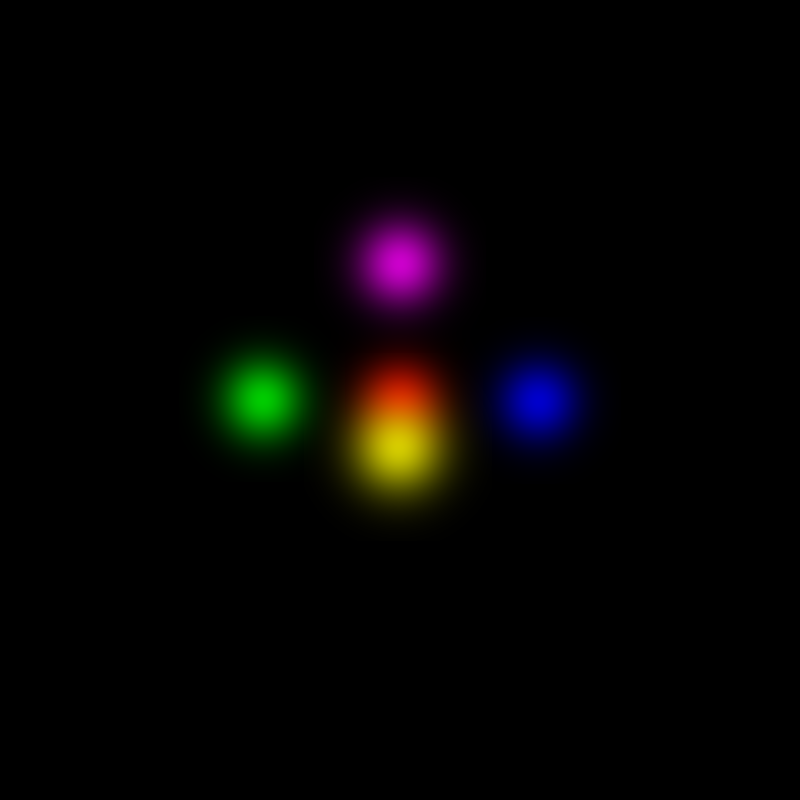
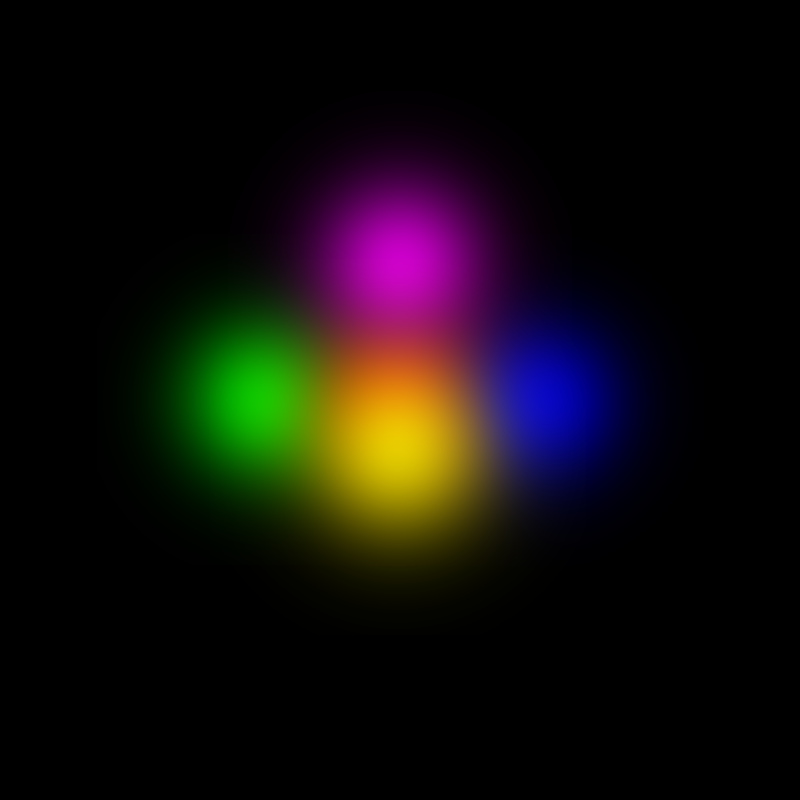
Functionify

Changed region(s): [[0.1875, 0.1875, 0.8125, 0.7188]]

diff --git a/main.py b/main.py
@@ -13,7 +13,7 @@ camera_to_world = loaded_data['frames'][0]['transform_matrix']
 fp = f"./lego_data/{frame_fp}.png"
 img = Image.open(fp)
 
-# Set up the Camera Object
+# Define the Class Objects
 class Camera:
     def __init__(self, img, camera_angle_x, camera_to_world):
         self.img = img
@@ -25,88 +25,6 @@ class Camera:
         self.cx, self.cy = self.width / 2, self.height / 2
         self.c2w = np.array(self.camera_to_world, dtype=np.float64)
         self.w2c = np.linalg.inv(self.c2w)
-
-# Instantiate Camera Object
-camera_object = Camera(img, camera_angle_x, camera_to_world)
-
-# Define Projection Function
-def projection(p_world_point, camera: Camera):
-    wp = np.array(p_world_point)
-    world_point = np.append(wp, 1.0)
-    p_world = np.array(world_point)
-    focal = camera.fx
-    p_camera = camera.w2c @ p_world
-    x_cam, y_cam, z_cam, _ = p_camera
-    depth = -z_cam
-    u = focal * (x_cam / depth) + camera.width / 2
-    v = camera.height / 2 -focal * (y_cam / depth)
-    return u, v, depth
-
-# World point tests
-# test_array = [[0, 0, 0], [0.5, 0, 0], [-0.5, 0, 0], [0, 0.5, 0], [0, -0.5, 0], [0, 0, 0.5], [0, 0, -0.5]]
-#
-# draw = ImageDraw.Draw(img)
-# size = 7
-#
-# for test in test_array:
-#     u, v, depth = projection(test, camera_object)
-#     if depth <= 0:
-#         continue
-#     x = round(u)
-#     y = round(v)
-#     if x < 0 or x >= camera_object.width or y < 0 or y >= camera_object.height:
-#         continue
-#     shape = [x - size, y - size, x + size, y + size]
-#     # draw.rectangle(shape, outline="red", width=2)
-#
-# # img.save("test_draw.png")
-
-def alpha_at_pixel(pixel_x, pixel_y, u, v, sigma_pixels, opacity):
-    dx = pixel_x - u
-    dy = pixel_y - v
-    distance_squared = dx ** 2 + dy ** 2
-    weight = np.exp(-0.5 * distance_squared / sigma_pixels ** 2)
-    alpha = weight * opacity
-    return alpha
-
-img_rgb = img.convert('RGB')
-rgb_array = np.array(img_rgb).astype(float) / 255.0
-
-def draw_gaussian_splat(pixel_array, width, height, u, v, sigma_pixels, color, opacity):
-    radius = 3 * sigma_pixels
-    x_min = max(0, int(u - radius))
-    x_max = min(width - 1, int(u + radius))
-
-    y_min = max(0, int(v - radius))
-    y_max = min(height - 1, int(v + radius))
-    # pixels = img.load()
-    for x in range(x_min, x_max + 1):
-        for y in range(y_min, y_max + 1):
-            old_pixel = pixel_array[y, x]
-            alpha = alpha_at_pixel(x, y, u, v, sigma_pixels, opacity)
-            # new_pixel_x, new_pixel_y, new_pixel_z = (old_pixel * (1 - alpha) + color * alpha) * 255.0
-            new_pixel = old_pixel * (1 - alpha) + color * alpha
-            # rgb_array[y, x] = (int(new_pixel_x), int(new_pixel_y), int(new_pixel_z))
-            pixel_array[y, x] = new_pixel
-
-color = np.array([1.0, 0.0, 0.0])
-# draw_gaussian_splat(rgb_array, 400, 400, 25, color, 0.8)
-# img.save("Gaussian_Test.png")
-
-# world_points = [[0, 0, 0.5], [0, 0, 0.0], [0, 0, -0.5]]
-# world_radius = 0.1
-#
-# for wp in world_points:
-#     u, v, depth = projection(wp, camera_object)
-#     if depth <= 0:
-#         continue
-#
-#     sigma_p = camera_object.fx * world_radius / depth
-#     print(depth, sigma_p)
-#     draw_gaussian_splat(rgb_array, camera_object.width, camera_object.height, u, v, sigma_p, color, 0.8)
-#
-# output = Image.fromarray(np.clip(rgb_array * 255, 0, 255).astype(np.uint8))
-# output.save("Adjusted_depth.png")
 
 class Gaussian:
     def __init__ (self, wp, radius, color, opacity):
@@ -126,36 +44,88 @@ class Splat:
         self.color = color
         self.opacity = opacity
 
-gaussians = [Gaussian([0, 0, 0], 0.10, np.array([1.0, 0.0, 0.0]), 0.8),
-            Gaussian([0.5, 0, 0], 0.10, np.array([0.0, 1.0, 0.0]), 0.8),
-            Gaussian([-0.5, 0, 0], 0.10, np.array([0.0, 0.0, 1.0]), 0.8),
-            Gaussian([0, 0.5, 0], 0.10, np.array([1.0, 1.0, 0.0]), 0.8),
-            Gaussian([0, 0, 0.5], 0.10, np.array([1.0, 0.0, 1.0]), 0.8)]
+# Instantiate Camera Object
+camera_object = Camera(img, camera_angle_x, camera_to_world)
 
-rgb_gaus = np.zeros((camera_object.height, camera_object.width, 3))
-sort_rgb = []
+# Define Projection Function
+def projection(p_world_point, camera: Camera):
+    wp = np.array(p_world_point)
+    world_point = np.append(wp, 1.0)
+    p_world = np.array(world_point)
+    focal = camera.fx
+    p_camera = camera.w2c @ p_world
+    x_cam, y_cam, z_cam, _ = p_camera
+    depth = -z_cam
+    u = focal * (x_cam / depth) + camera.width / 2
+    v = camera.height / 2 -focal * (y_cam / depth)
+    return u, v, depth
 
-for gaussian in gaussians:
-    wp = gaussian.wp
-    radius = gaussian.radius
-    color = gaussian.color
-    opacity  = gaussian.opacity
-    u, v, depth = projection(wp, camera_object)
-    if depth <= 0:
-        continue
+# Define Alpha Function
+def alpha_at_pixel(pixel_x, pixel_y, u, v, sigma_pixels, opacity):
+    dx = pixel_x - u
+    dy = pixel_y - v
+    distance_squared = dx ** 2 + dy ** 2
+    weight = np.exp(-0.5 * distance_squared / sigma_pixels ** 2)
+    alpha = weight * opacity
+    return alpha
 
-    sigma_p = camera_object.fx * radius / depth
-    splat = Splat(camera_object.width, camera_object.height, u, v, depth, sigma_p, gaussian.color, gaussian.opacity)
+img_rgb = img.convert('RGB')
+rgb_array = np.array(img_rgb).astype(float) / 255.0
 
-    sort_rgb.append(splat)
+# Define Draw Function
+def draw_gaussian_splat(pixel_array, width, height, u, v, sigma_pixels, color, opacity):
+    radius = 3 * sigma_pixels
+    x_min = max(0, int(u - radius))
+    x_max = min(width - 1, int(u + radius))
 
-sort_rgb.sort(key=lambda splat: splat.depth, reverse=True)
-for d in sort_rgb:
-    print(d.depth)
+    y_min = max(0, int(v - radius))
+    y_max = min(height - 1, int(v + radius))
+    # pixels = img.load()
+    for x in range(x_min, x_max + 1):
+        for y in range(y_min, y_max + 1):
+            old_pixel = pixel_array[y, x]
+            alpha = alpha_at_pixel(x, y, u, v, sigma_pixels, opacity)
+            # new_pixel_x, new_pixel_y, new_pixel_z = (old_pixel * (1 - alpha) + color * alpha) * 255.0
+            new_pixel = old_pixel * (1 - alpha) + color * alpha
+            # rgb_array[y, x] = (int(new_pixel_x), int(new_pixel_y), int(new_pixel_z))
+            pixel_array[y, x] = new_pixel
 
-for splat in sort_rgb:
-    draw_gaussian_splat(rgb_gaus, splat.width, splat.height, splat.u, splat.v, splat.sigma_p, splat.color, splat.opacity)
+# Define Render Function
+def render_scene(camera: Camera, gaussians: list[Gaussian]):
 
-output = Image.fromarray(np.clip(rgb_gaus * 255, 0, 255).astype(np.uint8))
-output.save("BlankSpaceDepth.png")
+    rgb_gaus = np.zeros((camera_object.height, camera_object.width, 3))
+    sort_rgb = []
+
+    for gaussian in gaussians:
+        wp = gaussian.wp
+        radius = gaussian.radius
+        color = gaussian.color
+        opacity  = gaussian.opacity
+        u, v, depth = projection(wp, camera_object)
+
+        if depth <= 0:
+            continue
+
+        sigma_p = camera_object.fx * radius / depth
+        splat = Splat(camera_object.width, camera_object.height, u, v, depth, sigma_p, gaussian.color, gaussian.opacity)
+
+        sort_rgb.append(splat)
+
+    sort_rgb.sort(key=lambda splat: splat.depth, reverse=True)
+
+    for splat in sort_rgb:
+        draw_gaussian_splat(rgb_gaus, splat.width, splat.height, splat.u, splat.v, splat.sigma_p, splat.color, splat.opacity)
+
+    return rgb_gaus
+
+gaussians_tests =  [Gaussian([0, 0, 0], 0.10, np.array([1.0, 0.0, 0.0]), 0.8),
+                    Gaussian([0.5, 0, 0], 0.10, np.array([0.0, 1.0, 0.0]), 0.8),
+                    Gaussian([-0.5, 0, 0], 0.10, np.array([0.0, 0.0, 1.0]), 0.8),
+                    Gaussian([0, 0.5, 0], 0.10, np.array([1.0, 1.0, 0.0]), 0.8),
+                    Gaussian([0, 0, 0.5], 0.10, np.array([1.0, 0.0, 1.0]), 0.8)]
+
+pixel_array = render_scene(camera_object, gaussians_tests)
+
+output = Image.fromarray(np.clip(pixel_array * 255, 0, 255).astype(np.uint8))
+output.save("BlankSpaceFunc.png")
 